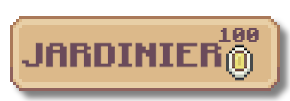
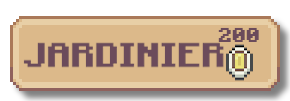
chickenhouse object on screen

Changed region(s): [[0.0621, 0.2673, 0.8069, 0.6832]]

diff --git a/src/view/VueLeft.java b/src/view/VueLeft.java
@@ -22,7 +22,8 @@ public class VueLeft extends JPanel {
     private Image IMGCoinSign;
     private Image IMGScoreSign;
     private Image IMGTimeSign;
-    private Image i1;
+    private Image IMGHoverGardener;
+    private Image IMGHoverChickenHouse;
     private Image cursorNormal;
     private Image cursorHover;
     private Cursor c;
@@ -30,6 +31,7 @@ public class VueLeft extends JPanel {
     private Image dropTomato;
     private Image dropSoleil;
     private Image dropEgg;
+    private Image IMGChickenHouse;
     public VueLeft(VueMainGame vueMainGame, ModelGame game) {
         this.vueMainGame = vueMainGame;
         this.toolkit = Toolkit.getDefaultToolkit();
@@ -53,7 +55,9 @@ public class VueLeft extends JPanel {
         this.IMGCoinSign = this.toolkit.getImage("src/assets/maingame/left/coin sign.png");
         this.IMGScoreSign = this.toolkit.getImage("src/assets/maingame/left/score sign.png");
         this.IMGTimeSign = this.toolkit.getImage("src/assets/maingame/left/time sign.png");
-        this.i1 = this.toolkit.getImage("src/assets/maingame/shop/gardener.png");
+
+        this.IMGHoverGardener = this.toolkit.getImage("src/assets/maingame/shop/gardener.png");
+        this.IMGHoverChickenHouse = this.toolkit.getImage("src/assets/maingame/chicken/house.png");
 
         this.cursorNormal = this.toolkit.getImage("src/assets/cursor/normal.png");
         this.cursorHover = this.toolkit.getImage("src/assets/cursor/hover.png");
@@ -63,6 +67,7 @@ public class VueLeft extends JPanel {
         this.dropSoleil = this.toolkit.getImage("src/assets/maingame/drop/soleil.png");
 
         this.dropEgg = this.toolkit.getImage("src/assets/maingame/drop/egg.png");
+        this.IMGChickenHouse = this.toolkit.getImage("src/assets/maingame/chicken/house.png");
     }
 
     @Override
@@ -70,6 +75,10 @@ public class VueLeft extends JPanel {
         super.paintComponent(g);
 
         g.drawImage(this.bgImage, 0,0, this);
+
+        if(this.game.getHasChickenHouse()) {
+            this.drawChickenHouse(g);
+        }
 
         this.drawPlants(g);
         this.drawDrop(g);
@@ -205,9 +214,19 @@ public class VueLeft extends JPanel {
      * @param g L'objet Graphics utilisé pour le dessin.
      */
     public void drawHover(Graphics g) {
+        Graphics2D g2d = (Graphics2D) g.create();
+
+        float opacity = 0.5f;
+        g2d.setComposite(AlphaComposite.getInstance(AlphaComposite.SRC_OVER, opacity));
+
         int x = this.vueLeftMouseMotion.getX();
         int y = this.vueLeftMouseMotion.getY();
-        g.drawImage(this.i1, x, y, this);
+        if(this.game.getIsBuying().equals("Gardener")) {
+            g2d.drawImage(this.IMGHoverGardener, x, y, this);
+        }else if(this.game.getIsBuying().equals("ChickenHouse")) {
+            g2d.drawImage(this.IMGHoverChickenHouse, x, y, this);
+        }
+        g2d.dispose();
     }
 
     /**
@@ -259,5 +278,10 @@ public class VueLeft extends JPanel {
             Point position = chicken.getPosition();
             g.drawImage(helper, position.x, position.y, this);
         }
+    }
+
+    public void drawChickenHouse(Graphics g) {
+        ModelChickenHouse chickenHouse = this.game.getChickenHouse();
+        g.drawImage(this.IMGChickenHouse, chickenHouse.getPosition().x, chickenHouse.getPosition().y, this);
     }
 }

diff --git a/src/model/ModelGame.java b/src/model/ModelGame.java
@@ -26,6 +26,8 @@ public class ModelGame {
     private HashMap<Integer, ModelObstacle> obstacles;
     private HashMap<Integer, ModelDrop> drops;
     private HashMap<Integer, ModelChicken> chickens;
+    private boolean hasChickenHouse;
+    private ModelChickenHouse chickenHouse;
     private int money;
     private int score;
     private int timeLeft; // Temps restant dans le jeu.
@@ -47,11 +49,13 @@ public class ModelGame {
         this.drops = new HashMap<>();
 
         this.chickens = new HashMap<>();
+        this.hasChickenHouse = false;
+        this.chickenHouse = null;
 
         this.selected = null;
         this.isBuying = "";
 
-        this.money = 10;
+        this.money = 200;
         this.score = 0;
         this.timeLeft = 300;
 
@@ -62,7 +66,7 @@ public class ModelGame {
         int helpery = (this.vueMainGame.getScreen_height() - 50) / 2;
         this.gardeners.put(0, new ModelGardener(0, new Point(helperx, helpery), new Point(helperx, helpery), this));
 
-        this.chickens.put(0, new ModelChicken(0, new Point(100, 100), new Point(100, 100), this));
+        this.chickens.put(0, new ModelChicken(0, new Point(100, 100), this));
     }
 
     /**
@@ -100,8 +104,10 @@ public class ModelGame {
     public void setIsBuying(String isBuying) {
         if(isBuying.equals("")) {
             this.isBuying = "";
-        }else if(isBuying.equals("Gardener") &&  this.money >= 100)  {
-            this.isBuying = isBuying;
+        }else if(isBuying.equals("Gardener") &&  this.money >= 200)  {
+            this.isBuying = "Gardener";
+        }else if(isBuying.equals("ChickenHouse") && this.money >= 100) {
+            this.isBuying = "ChickenHouse";
         }
     }
 
@@ -223,7 +229,20 @@ public class ModelGame {
     public HashMap<Integer, ModelChicken> getChickens() {
         return this.chickens;
     }
+    public void addChicken(ModelChicken chicken) {
+        this.chickens.put(chicken.getId(), chicken);
+    }
+    public boolean getHasChickenHouse() {
+        return this.hasChickenHouse;
+    }
 
+    public ModelChickenHouse getChickenHouse() {
+        return this.chickenHouse;
+    }
+    public void setChickenHouse(ModelChickenHouse chickenHouse) {
+        this.chickenHouse = chickenHouse;
+        this.hasChickenHouse = true;
+    }
     /**
      * Réinitialise le jeu en effaçant toutes les entités (jardiniers, plantes, lapins, obstacles, objets récupérables),
      * en réinitialisant l'unité sélectionnée, l'état d'achat, la monnaie, le score, et le temps restant.

diff --git a/src/view/VueRight.java b/src/view/VueRight.java
@@ -16,7 +16,7 @@ public class VueRight extends JPanel {
     private ModelGame game;
     private Image IMGbg;
     private Image IMGshopTalk, IMGCowTalk, IMGPlantTalk;
-    private Image IMGshop1, IMGshopoff1;
+    private Image IMGshop1, IMGshopoff1, IMGshop2, IMGshopoff2;
     private Image IMGGar;
     private Image IMGGarAction0, IMGGarAction1, IMGGarAction2, IMGGarAction3, IMGGarActionOff0, IMGGarActionOff1, IMGGarActionOff2, IMGGarActionOff3;
     private Image IMGPlantButton;
@@ -49,6 +49,8 @@ public class VueRight extends JPanel {
         this.IMGshopTalk = this.toolkit.getImage("src/assets/maingame/shop/talk.png");
         this.IMGshop1 = this.toolkit.getImage("src/assets/maingame/shop/shop1.png");
         this.IMGshopoff1 = this.toolkit.getImage("src/assets/maingame/shop/shopoff1.png");
+        this.IMGshop2 = this.toolkit.getImage("src/assets/maingame/shop/shop2.png");
+        this.IMGshopoff2 = this.toolkit.getImage("src/assets/maingame/shop/shopoff2.png");
 
         this.IMGGar = this.toolkit.getImage("src/assets/maingame/right/gardener.png");
         this.IMGGarAction0 = this.toolkit.getImage("src/assets/maingame/right/gardeneraction0.png");
@@ -111,12 +113,19 @@ public class VueRight extends JPanel {
         y += this.IMGshopTalk.getHeight(this) + 50;
 
         int money = this.game.getMoney();
-        if(money >= 100) {
+        if(money >= 200) {
             g.drawImage(this.IMGshop1, x, y, this);
         }else {
             g.drawImage(this.IMGshopoff1, x, y , this);
         }
         y += this.IMGshop1.getHeight(this) + 10;
+
+        if(money >= 100 && !this.game.getHasChickenHouse()) {
+            g.drawImage(this.IMGshop2, x, y, this);
+        }else {
+            g.drawImage(this.IMGshopoff2, x, y , this);
+        }
+        y += this.IMGshop2.getHeight(this) + 10;
     }
 
     /**

diff --git a/src/control/maingame/MouseListenerVueLeft.java b/src/control/maingame/MouseListenerVueLeft.java
@@ -106,11 +106,19 @@ public class MouseListenerVueLeft implements MouseListener {
             }else {
                 if(isBuying.equals("Gardener")) {
                     int money = this.game.getMoney();
+                    if(money >= 200) {
+                        MusicPlayer.playClick();
+                        this.game.setMoney(money - 200);
+                        this.game.setIsBuying("");
+                        this.game.addGardener(new ModelGardener(IdGen.generateGardenerId(), e.getPoint(), e.getPoint(), this.game));
+                    }
+                }else if(isBuying.equals("ChickenHouse")) {
+                    int money = this.game.getMoney();
                     if(money >= 100) {
                         MusicPlayer.playClick();
                         this.game.setMoney(money - 100);
                         this.game.setIsBuying("");
-                        this.game.addGardener(new ModelGardener(IdGen.generateGardenerId(), e.getPoint(), e.getPoint(), this.game));
+                        this.game.setChickenHouse(new ModelChickenHouse(0, e.getPoint(), this.game));
                     }
                 }
             }

diff --git a/src/model/ModelChickenHouse.java b/src/model/ModelChickenHouse.java
@@ -3,11 +3,14 @@ package model;
 import java.awt.*;
 
 public class ModelChickenHouse extends ModelUnit{
-    public ModelChickenHouse(int id, Point position) {
+    private ModelGame game;
+    public ModelChickenHouse(int id, Point position, ModelGame game) {
         super(id, position, position);
+        this.game = game;
     }
 
     public void spawnChicken() {
-
+        ModelChicken chicken = new ModelChicken(IdGen.generateChickenId(), this.getPosition(), this.game);
+        this.game.addChicken(chicken);
     }
 }

diff --git a/src/control/maingame/MouseListenerVueRight.java b/src/control/maingame/MouseListenerVueRight.java
@@ -61,6 +61,9 @@ public class MouseListenerVueRight implements MouseListener {
                 if(e.getY() >= 225 && e.getY() <= 315) {
                     MusicPlayer.playClick();
                     this.game.setIsBuying("Gardener");
+                }else if(e.getY() >= 330 && e.getY() <= 420 && !this.game.getHasChickenHouse()) {
+                    MusicPlayer.playClick();
+                    this.game.setIsBuying("ChickenHouse");
                 }
             }
         }

diff --git a/src/model/ModelChicken.java b/src/model/ModelChicken.java
@@ -40,8 +40,8 @@ public class ModelChicken extends ModelUnit{
             return name;
         }
     }
-    public ModelChicken(int id, Point position, Point dest, ModelGame game) {
-        super(id, position, dest);
+    public ModelChicken(int id, Point position, ModelGame game) {
+        super(id, position, position);
         this.game = game;
         this.status = Status.IDLING;
 
